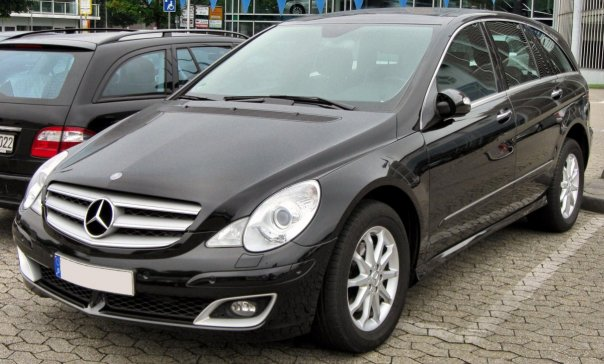
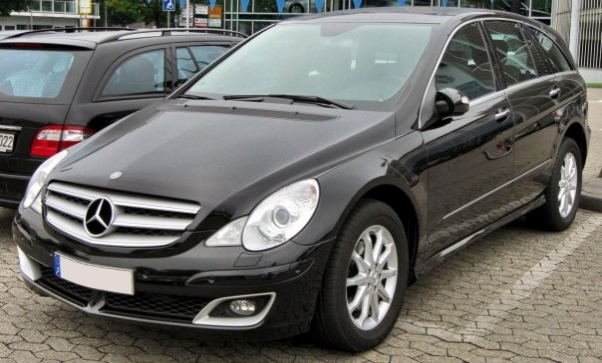
246

diff --git a/style_v.min.css b/style_v.min.css
@@ -1,1 +1,1 @@
-@charset "UTF-8";.hiragino{font-family:'Hiragino Kaku Gothic ProN','Hiragino Sans',Meiryo,sans-serif}.fs50p{font-size:50%}.fs80p{font-size:80%}.fs250p{font-size:250%}.fs300p{font-size:300%}.fs17{font-size:17px}.f1{color:#111}.f2{color:#222}.f3{color:#444}.f4{color:#666}.f5{color:#888}.f6{color:#999}.f7{color:#ccc}.f8{color:#dbd8d8}.f9{color:#fff}.fl-w,.fl-w2,.fl-w3{font-size:100px;color:#ccc;line-height:100px}.fl-w2{font-size:80px;line-height:80px}.fl-w3{font-size:60px;line-height:80px}.clr-or{color:orange}.clr-gy{color:#006c00}.clr-lb{color:#0e56dd}.ls04{letter-spacing:.4pt}.ls411{letter-spacing:4.11pt}.ls-13{letter-spacing:-1.3pt}.b{font-weight:800}.b_cancel{font-weight:400}.aa{font-size:16px;line-height:.95;margin:60px 0 15px 30px}.td1{border-top:solid .9px #666;border-bottom:solid .9px #666}.td2{border-bottom:solid .9px #666}.td3{color:#f2f2f2}.td3:hover{border-bottom:solid 1.8px #59f3ff;color:#59f3ff}a{text-decoration:none}a:link{color:#444}a:visited{color:#444}.lnk:hover{color:#000;border-bottom:solid 1px #000}a.lnk2:hover{color:#2600ff;border-bottom:solid 1px #2600ff}a.lnk3{color:#fbfbfb;line-height:40px}a.lnk3:visited{color:#fbfbfb}a.lnk3:hover{border-bottom:solid 1px #f2f2f2}.top{vertical-align:top}.left{text-align:left}.mid{text-align:center}.r,.ru{text-align:right;margin-right:30px}.ru{margin-top:-33.3px}.lh1{line-height:.99}.lh2{line-height:1.4}.bf0:before{content:"■ "}.bf1:before,.bf1a:before{content:"▼";margin:0 10px 4px 0;padding-left:18px;color:#afafaf}.bf1a:before{margin:0 10px 4px 10px;color:#f2f2f2}.bf2:before{content:">>";font-weight:700;margin-left:20px;margin-right:5px;color:#444}.af4:after,.bf4:before{content:"|";color:#444;font-weight:700;margin:10px}.bgc-hp{background-color:#fdbbdc}.bgc-lg{background-color:#90ee90}.bgc-pb{background-color:#b0e0e6}.bgc-or{background-color:orange}.bgc-ye{background-color:#ff0}.bgc-pp{background-color:#c5a4fa}.bgc-g{background-color:#616161}.bgc-amazon{background-color:#232f3e}.bgc-amazon2{background-color:#37475a}.bgc-amazon3{background-color:#0f1111}.bgc-yamaha{background-color:#3b3b3b}.bgc-yamaha2{background-color:#dbdbdb}.bgc-ricoh{background-color:#2e2e2e}.t-320{margin-top:-320px}.t-60{margin-top:-100px}.t-50{margin-top:-80px}.t-08{margin-top:-15px}.t-07{margin-top:-11px}.t-06{margin-top:-10px}.t-05{margin-top:-8.6px}.t-04{margin-top:-8px}.t-03{margin-top:-6px}.t-02{margin-top:-4px}.t-01{margin-top:-2px}.t-005{margin-top:-1px}.t00{margin-top:0}.t0{margin-top:.8px}.t0f{margin-top:3px}.t0c{margin-top:7.2px}.t0a{margin-top:8px}.t0g{margin-top:8.6px}.t0h{margin-top:10px}.t0b{margin-top:14px}.t0d{margin-top:19.8px}.t0e{margin-top:27.36px}.t1{margin-top:28.8px}.t1d{margin-top:31.5px}.t1a{margin-top:34px}.t1b{margin-top:43px}.t2b{margin-top:50.94px}.t1c{margin-top:52px}.t2{margin-top:57.6px}.t2c{margin-top:64px}.t2d{margin-top:68px}.t2a{margin-top:72px}.t3{margin-top:76.8px}.t3a{margin-top:78px}.t3b{margin-top:88px}.t3c{margin-top:90px}.t3f{margin-top:95px}.t3d{margin-top:103px}.t3e{margin-top:118px}.t4{margin-top:128px}.t5{margin-top:158px}.t6{margin-top:162px}.t8{margin-top:174px}.t9{margin-top:194px}.t10{margin-top:208px}.t10a{margin-top:214px}.t11{margin-top:222px}.t21{margin-top:246px}.t21a{margin-top:270px}.t22{margin-top:316px}.t22b{margin-top:322px}.t22a{margin-top:334px}.t23{margin-top:429px}.t23a{margin-top:433px}.t24{margin-top:467px}.t30{margin-top:556px}.t40{margin-top:750px}.t42{margin-top:790px}.t46{margin-top:858px}.t48{margin-top:894px}.t54{margin-top:990px}.t55{margin-top:1040px}.t58{margin-top:1070px}.t59{margin-top:1080px}.t60{margin-top:1108px}.t63{margin-top:1166px}.t64{margin-top:1180px}.t65{margin-top:1215px}.t76{margin-top:1419px}.t100{margin-top:1749px}.t105{margin-top:1770px}.t120{margin-top:1933.6px}.s-5{margin-right:-40px}.s{margin-right:8px}.s2{margin-right:16px}.s4{margin-right:32px}.s5{margin-right:40px}.s6{margin-right:48px}.s8{margin-right:64px}.s9{margin-right:70px}.s10{margin-right:80px}.s11{margin-right:88px}.s12{margin-right:96px}.s13{margin-right:104px}.s14{margin-right:122px}.s15{margin-right:140px}.s17{margin-right:176px}.s18{margin-right:194px}.s19{margin-right:212px}.s20{margin-right:230px}.s21{margin-right:248px}.s23{margin-right:284px}.s25{margin-right:320px}.s27{margin-right:356px}.s28{margin-right:374px}.s29{margin-right:392px}.s30{margin-right:410px}.s31{margin-right:428px}.pb0{padding-bottom:8px}.pb1{padding-bottom:16px}.pb2{padding-bottom:32px}.pb3{padding-bottom:48px}.pb4{padding-bottom:64px}.pb6{padding-bottom:96px}.pb7{padding-bottom:112px}.pb8{padding-bottom:128px}.pb9{padding-bottom:144px}.pb10{padding-bottom:160px}.pb11{padding-bottom:176px}.pb12{padding-bottom:192px}.pb13{padding-bottom:208px}.pb23{padding-bottom:368px}.pb25{padding-bottom:400px}.pb27{padding-bottom:432px}.pb28{padding-bottom:464px}.m-1{margin-left:-18px}.m-05{margin-left:-10.8px}.m-04{margin-left:-7px}.m-03{margin-left:-.54px}.m-02{margin-left:-3.78px}.m-01{margin-left:-1.8px}.m0{margin-left:0}.m0v{margin-left:2px}.m0va{margin-left:2.6px}.m0j{margin-left:3.24px}.m0t{margin-left:3.6px}.m0q{margin-left:4.2px}.m0d{margin-left:5px}.m0f{margin-left:5.4px}.m0b{margin-left:6.84px}.m0ba{margin-left:8px}.m0i{margin-left:8.8px}.m0s{margin-left:9.5px}.m0m{margin-left:10.44px}.m0a{margin-left:12.24px}.m0r{margin-left:13px}.m0u{margin-left:13.5px}.m0e{margin-left:14px}.m0l{margin-left:14.6px}.m0k{margin-left:15.2px}.m0g{margin-left:15.5px}.m0n{margin-left:16.4px}.m0c{margin-left:16.74px}.m0p{margin-left:17.64px}.m1{margin-left:18px}.m1k{margin-left:18.8px}.m1e{margin-left:19.8px}.m1o{margin-left:20.2px}.m1n{margin-left:21.24px}.m1c{margin-left:22.2px}.m1f{margin-left:22.32px}.m1p{margin-left:23px}.m1m{margin-left:24px}.m1b{margin-left:24.48px}.m1g{margin-left:25.2px}.m1l{margin-left:26.64px}.m1la{margin-left:27.64px}.m1d{margin-left:28.8px}.m1h{margin-left:30.06px}.m1i{margin-left:31.5px}.m1j{margin-left:33px}.m1ja{margin-left:34px}.m1a{margin-left:35px}.m2{margin-left:36px}.m2b{margin-left:39px}.m2h{margin-left:40px}.m2c{margin-left:42px}.m2f{margin-left:43.2px}.m2fa{margin-left:44px}.m2a{margin-left:45px}.m2g{margin-left:46.44px}.m2d{margin-left:47.4px}.m2e{margin-left:48.6px}.m2j{margin-left:49.5px}.m2k{margin-left:52px}.m3{margin-left:54px}.m3f{margin-left:54.8px}.m3a{margin-left:60.48px}.m3b{margin-left:61.2px}.m3d{margin-left:63px}.m3g{margin-left:64.8px}.m3c{margin-left:68.4px}.m3e{margin-left:69.6px}.m4{margin-left:72px}.m4b{margin-left:74px}.m4e{margin-left:75.5px}.m4a{margin-left:77.94px}.m4c{margin-left:79.2px}.m4d{margin-left:82px}.m05{margin-left:90px}.m05a{margin-left:92px}.m05b{margin-left:106px}.m06{margin-left:108px}.m06a{margin-left:117px}.m06b{margin-left:122.4px}.m07{margin-left:126px}.m07a{margin-left:130px}.m07b{margin-left:137px}.m08{margin-left:144px}.m08a{margin-left:147.6px}.m09{margin-left:162px}.m10{margin-left:180px}.m11{margin-left:198px}.m12a{margin-left:226px}.m13{margin-left:234px}.m14{margin-left:252px}.m15{margin-left:270px}.m16{margin-left:320px}.m17{margin-left:330.48px}.m19{margin-left:342px}.m22{margin-left:396px}.m24{margin-left:432px}.m26{margin-left:468px}.m27{margin-left:493.2px}.m29{margin-left:522px}.m33{margin-left:594px}.m34a{margin-left:622.5px}.m36a{margin-left:642px}.m37{margin-left:660.6px}.m38{margin-left:696px}.m39{margin-left:702px}.m40{margin-left:720px}.m41{margin-left:738px}.m43{margin-left:774px}.m44{margin-left:792px}.m45{margin-left:810px}.m46{margin-left:828px}.m47{margin-left:846px}.m48{margin-left:865.8px}.m51{margin-left:918px}.m53{margin-left:954px}.m54{margin-left:972px}.m60{margin-left:1024px}.w1{width:18px}.w2{width:36px}.w3{width:54px}.w4{width:72px}.w5{width:90px}.w6{width:108px}.w7{width:126px}.w8{width:144px}.w9{width:162px}.w10{width:180px}.w11{width:198px}.w12{width:216px}.w13{width:234px}.w14{width:252px}.w15{width:270px}.w16{width:288px}.w18{width:324px}.w20{width:360px}.w22{width:396px}.w24{width:432px}.box04,.box07a,.box08,.box09,.box09a,.box100,.box108,.box11,.box111,.box12,.box13,.box13a,.box14b,.box15,.box16,.box17a,.box18,.box21,.box21a,.box22,.box23,.box27,.box30a,.box34,.box36,.box39,.box40,.box41,.box41a,.box44,.box46,.box47a,.box50,.box51,.box53,.box56,.box59,.box60,.box61,.box62,.box64,.box64a,.box68,.box70,.box71,.box72,.box74,.box76,.box80,.box81,.box90,.box96{float:left}.box04{width:40px}.box07a{width:74px}.box08{width:82px}.box09{width:90px}.box09a{width:96px}.box11{width:110px}.box12{width:120px}.box13{width:130px}.box13a{width:136px}.box14b{width:145px}.box15{width:150px}.box16{width:160px}.box17a{width:175px}.box18{width:180px}.box21{width:210px}.box21a{width:212px}.box22{width:220px}.box23{width:230px}.box27{width:270px}.box30a{width:300px}.box34{width:340px}.box36{width:360px}.box39{width:387px}.box40{width:400px}.box41{width:406px}.box41a{width:417px}.box44{width:440px}.box46{width:463px}.box50{width:500px}.box51{width:510px}.box53{width:525px}.box56{width:560px}.box59{width:592px}.box60{width:600px}.box61{width:606px}.box64{width:641px}.box64a{width:687px}.box62{width:620px}.box68{width:680px}.box70{width:699px}.box71{width:706px}.box72{width:717px}.box74{width:740px}.box77{width:770px}.box80{width:804px}.box81{width:808px}.box90{width:900px}.box96{width:960px}.box100{width:1000px}.box108{width:1080px}.box111{width:1110px}.box121{width:1219px}.box-wide{width:3230px}.ht10{height:106.6px}.ht45{height:500px}.ht59{height:670px}.ht72{height:710px}.ht86{height:910px}.ht78{height:820px}.ht94{height:940px}.ht104{height:1040px}
+@charset "UTF-8";.hiragino{font-family:'Hiragino Kaku Gothic ProN','Hiragino Sans',Meiryo,sans-serif}.fs50p{font-size:50%}.fs80p{font-size:80%}.fs250p{font-size:250%}.fs300p{font-size:300%}.fs17{font-size:17px}.f1{color:#111}.f2{color:#222}.f3{color:#444}.f4{color:#666}.f5{color:#888}.f6{color:#999}.f7{color:#ccc}.f8{color:#dbd8d8}.f9{color:#fff}.fl-w,.fl-w2,.fl-w3{font-size:100px;color:#ccc;line-height:100px}.fl-w2{font-size:80px;line-height:80px}.fl-w3{font-size:60px;line-height:80px}.clr-or{color:orange}.clr-gy{color:#006c00}.clr-lb{color:#0e56dd}.ls04{letter-spacing:.4pt}.ls411{letter-spacing:4.11pt}.ls-13{letter-spacing:-1.3pt}.b{font-weight:800}.b_cancel{font-weight:400}.aa{font-size:16px;line-height:.95;margin:60px 0 15px 30px}.td1{border-top:solid .9px #666;border-bottom:solid .9px #666}.td2{border-bottom:solid .9px #666}.td3{color:#f2f2f2}.td3:hover{border-bottom:solid 1.8px #59f3ff;color:#59f3ff}a{text-decoration:none}a:link{color:#444}a:visited{color:#444}.lnk:hover{color:#000;border-bottom:solid 1px #000}a.lnk2:hover{color:#2600ff;border-bottom:solid 1px #2600ff}a.lnk3{color:#fbfbfb;line-height:40px}a.lnk3:visited{color:#fbfbfb}a.lnk3:hover{border-bottom:solid 1px #f2f2f2}.top{vertical-align:top}.left{text-align:left}.mid{text-align:center}.r,.ru{text-align:right;margin-right:30px}.ru{margin-top:-33.3px}.lh1{line-height:.99}.lh2{line-height:1.4}.bf0:before{content:"■ "}.bf1:before,.bf1a:before{content:"▼";margin:0 10px 4px 0;padding-left:18px;color:#afafaf}.bf1a:before{margin:0 10px 4px 10px;color:#f2f2f2}.bf2:before{content:">>";font-weight:700;margin-left:20px;margin-right:5px;color:#444}.af4:after,.bf4:before{content:"|";color:#444;font-weight:700;margin:10px}.bgc-w{background-color:#fff}.bgc-hp{background-color:#fdbbdc}.bgc-lg{background-color:#90ee90}.bgc-pb{background-color:#b0e0e6}.bgc-or{background-color:orange}.bgc-ye{background-color:#ff0}.bgc-pp{background-color:#c5a4fa}.bgc-g{background-color:#616161}.bgc-amazon{background-color:#232f3e}.bgc-amazon2{background-color:#37475a}.bgc-amazon3{background-color:#0f1111}.bgc-yamaha{background-color:#3b3b3b}.bgc-yamaha2{background-color:#dbdbdb}.bgc-ricoh{background-color:#2e2e2e}.t-320{margin-top:-320px}.t-60{margin-top:-100px}.t-50{margin-top:-80px}.t-08{margin-top:-15px}.t-07{margin-top:-11px}.t-06{margin-top:-10px}.t-05{margin-top:-8.6px}.t-04{margin-top:-8px}.t-03{margin-top:-6px}.t-02{margin-top:-4px}.t-01{margin-top:-2px}.t-005{margin-top:-1px}.t00{margin-top:0}.t0{margin-top:.8px}.t0f{margin-top:3px}.t0c{margin-top:7.2px}.t0a{margin-top:8px}.t0g{margin-top:8.6px}.t0h{margin-top:10px}.t0b{margin-top:14px}.t0d{margin-top:19.8px}.t0e{margin-top:27.36px}.t1{margin-top:28.8px}.t1d{margin-top:31.5px}.t1a{margin-top:34px}.t1b{margin-top:43px}.t2b{margin-top:50.94px}.t1c{margin-top:52px}.t2{margin-top:57.6px}.t2c{margin-top:64px}.t2d{margin-top:68px}.t2a{margin-top:72px}.t3{margin-top:76.8px}.t3a{margin-top:78px}.t3b{margin-top:88px}.t3c{margin-top:90px}.t3f{margin-top:95px}.t3d{margin-top:103px}.t3e{margin-top:118px}.t4{margin-top:128px}.t5{margin-top:158px}.t6{margin-top:162px}.t8{margin-top:174px}.t9{margin-top:194px}.t10{margin-top:208px}.t10a{margin-top:214px}.t11{margin-top:222px}.t21{margin-top:246px}.t21a{margin-top:270px}.t22{margin-top:316px}.t22b{margin-top:322px}.t22a{margin-top:334px}.t23{margin-top:429px}.t23a{margin-top:433px}.t24{margin-top:467px}.t30{margin-top:556px}.t40{margin-top:750px}.t42{margin-top:790px}.t46{margin-top:858px}.t48{margin-top:894px}.t54{margin-top:990px}.t55{margin-top:1040px}.t58{margin-top:1070px}.t59{margin-top:1080px}.t60{margin-top:1108px}.t63{margin-top:1166px}.t64{margin-top:1180px}.t65{margin-top:1215px}.t76{margin-top:1419px}.t100{margin-top:1749px}.t105{margin-top:1770px}.t120{margin-top:1933.6px}.s-5{margin-right:-40px}.s{margin-right:8px}.s2{margin-right:16px}.s4{margin-right:32px}.s5{margin-right:40px}.s6{margin-right:48px}.s8{margin-right:64px}.s9{margin-right:70px}.s10{margin-right:80px}.s11{margin-right:88px}.s12{margin-right:96px}.s13{margin-right:104px}.s14{margin-right:122px}.s15{margin-right:140px}.s17{margin-right:176px}.s18{margin-right:194px}.s19{margin-right:212px}.s20{margin-right:230px}.s21{margin-right:248px}.s23{margin-right:284px}.s25{margin-right:320px}.s27{margin-right:356px}.s28{margin-right:374px}.s29{margin-right:392px}.s30{margin-right:410px}.s31{margin-right:428px}.pb0{padding-bottom:8px}.pb1{padding-bottom:16px}.pb2{padding-bottom:32px}.pb3{padding-bottom:48px}.pb4{padding-bottom:64px}.pb6{padding-bottom:96px}.pb7{padding-bottom:112px}.pb8{padding-bottom:128px}.pb9{padding-bottom:144px}.pb10{padding-bottom:160px}.pb11{padding-bottom:176px}.pb12{padding-bottom:192px}.pb13{padding-bottom:208px}.pb23{padding-bottom:368px}.pb25{padding-bottom:400px}.pb27{padding-bottom:432px}.pb28{padding-bottom:464px}.m-1{margin-left:-18px}.m-05{margin-left:-10.8px}.m-04{margin-left:-7px}.m-03{margin-left:-.54px}.m-02{margin-left:-3.78px}.m-01{margin-left:-1.8px}.m0{margin-left:0}.m0v{margin-left:2px}.m0va{margin-left:2.6px}.m0j{margin-left:3.24px}.m0t{margin-left:3.6px}.m0q{margin-left:4.2px}.m0d{margin-left:5px}.m0f{margin-left:5.4px}.m0b{margin-left:6.84px}.m0ba{margin-left:8px}.m0i{margin-left:8.8px}.m0s{margin-left:9.5px}.m0m{margin-left:10.44px}.m0a{margin-left:12.24px}.m0r{margin-left:13px}.m0u{margin-left:13.5px}.m0e{margin-left:14px}.m0l{margin-left:14.6px}.m0k{margin-left:15.2px}.m0g{margin-left:15.5px}.m0n{margin-left:16.4px}.m0c{margin-left:16.74px}.m0p{margin-left:17.64px}.m1{margin-left:18px}.m1k{margin-left:18.8px}.m1e{margin-left:19.8px}.m1o{margin-left:20.2px}.m1n{margin-left:21.24px}.m1c{margin-left:22.2px}.m1f{margin-left:22.32px}.m1p{margin-left:23px}.m1m{margin-left:24px}.m1b{margin-left:24.48px}.m1g{margin-left:25.2px}.m1l{margin-left:26.64px}.m1la{margin-left:27.64px}.m1d{margin-left:28.8px}.m1h{margin-left:30.06px}.m1i{margin-left:31.5px}.m1j{margin-left:33px}.m1ja{margin-left:34px}.m1a{margin-left:35px}.m2{margin-left:36px}.m2b{margin-left:39px}.m2h{margin-left:40px}.m2c{margin-left:42px}.m2f{margin-left:43.2px}.m2fa{margin-left:44px}.m2a{margin-left:45px}.m2g{margin-left:46.44px}.m2d{margin-left:47.4px}.m2e{margin-left:48.6px}.m2j{margin-left:49.5px}.m2k{margin-left:52px}.m3{margin-left:54px}.m3f{margin-left:54.8px}.m3a{margin-left:60.48px}.m3b{margin-left:61.2px}.m3d{margin-left:63px}.m3g{margin-left:64.8px}.m3c{margin-left:68.4px}.m3e{margin-left:69.6px}.m4{margin-left:72px}.m4b{margin-left:74px}.m4e{margin-left:75.5px}.m4a{margin-left:77.94px}.m4c{margin-left:79.2px}.m4d{margin-left:82px}.m05{margin-left:90px}.m05a{margin-left:92px}.m05b{margin-left:106px}.m06{margin-left:108px}.m06a{margin-left:117px}.m06b{margin-left:122.4px}.m07{margin-left:126px}.m07a{margin-left:130px}.m07b{margin-left:137px}.m08{margin-left:144px}.m08a{margin-left:147.6px}.m09{margin-left:162px}.m10{margin-left:180px}.m11{margin-left:198px}.m12a{margin-left:226px}.m13{margin-left:234px}.m14{margin-left:252px}.m15{margin-left:270px}.m16{margin-left:320px}.m17{margin-left:330.48px}.m19{margin-left:342px}.m22{margin-left:396px}.m24{margin-left:432px}.m26{margin-left:468px}.m27{margin-left:493.2px}.m29{margin-left:522px}.m33{margin-left:594px}.m34a{margin-left:622.5px}.m36a{margin-left:642px}.m37{margin-left:660.6px}.m38{margin-left:696px}.m39{margin-left:702px}.m40{margin-left:720px}.m41{margin-left:738px}.m43{margin-left:774px}.m44{margin-left:792px}.m45{margin-left:810px}.m46{margin-left:828px}.m47{margin-left:846px}.m48{margin-left:865.8px}.m51{margin-left:918px}.m53{margin-left:954px}.m54{margin-left:972px}.m60{margin-left:1024px}.w1{width:18px}.w2{width:36px}.w3{width:54px}.w4{width:72px}.w5{width:90px}.w6{width:108px}.w7{width:126px}.w8{width:144px}.w9{width:162px}.w10{width:180px}.w11{width:198px}.w12{width:216px}.w13{width:234px}.w14{width:252px}.w15{width:270px}.w16{width:288px}.w18{width:324px}.w20{width:360px}.w22{width:396px}.w24{width:432px}.box04,.box07a,.box08,.box09,.box09a,.box100,.box108,.box11,.box111,.box12,.box13,.box13a,.box14b,.box15,.box16,.box17a,.box18,.box21,.box21a,.box22,.box23,.box27,.box30a,.box34,.box36,.box39,.box40,.box41,.box41a,.box44,.box46,.box47a,.box50,.box51,.box53,.box56,.box59,.box60,.box61,.box62,.box64,.box64a,.box68,.box70,.box71,.box72,.box74,.box76,.box80,.box81,.box90,.box96{float:left}.box04{width:40px}.box07a{width:74px}.box08{width:82px}.box09{width:90px}.box09a{width:96px}.box11{width:110px}.box12{width:120px}.box13{width:130px}.box13a{width:136px}.box14b{width:145px}.box15{width:150px}.box16{width:160px}.box17a{width:175px}.box18{width:180px}.box21{width:210px}.box21a{width:212px}.box22{width:220px}.box23{width:230px}.box27{width:270px}.box30a{width:300px}.box34{width:340px}.box36{width:360px}.box39{width:387px}.box40{width:400px}.box41{width:406px}.box41a{width:417px}.box44{width:440px}.box46{width:463px}.box50{width:500px}.box51{width:510px}.box53{width:525px}.box56{width:560px}.box59{width:592px}.box60{width:600px}.box61{width:606px}.box64{width:641px}.box64a{width:687px}.box62{width:620px}.box68{width:680px}.box70{width:699px}.box71{width:706px}.box72{width:717px}.box74{width:740px}.box77{width:770px}.box80{width:804px}.box81{width:808px}.box90{width:900px}.box96{width:960px}.box100{width:1000px}.box108{width:1080px}.box111{width:1110px}.box121{width:1219px}.box-wide{width:3230px}.ht10{height:106.6px}.ht45{height:500px}.ht59{height:670px}.ht72{height:710px}.ht86{height:910px}.ht78{height:820px}.ht94{height:940px}.ht104{height:1040px}

diff --git a/pic/ja_mb_img_r.html b/pic/ja_mb_img_r.html
@@ -43,7 +43,7 @@
 				<ul>
 					<li class="i m1"><a href="../c_klasse.html" class="lnk2" title="Cクラスのテンプレートに戻る">ホーム</a></li>
 					<li class="i bf4 af4">
-						   <h1 class="i m0">Mercedes-Benz Pkw GALERIE<span class="clr-lb m0e">Rクラス</span></h1>
+						<h1 class="i m0">Mercedes-Benz Pkw GALERIE<span class="clr-lb m0e">Rクラス</span></h1>
 					</li>
 					<li class="i s2"><a href="#w251" title="251" class="lnk2">251</a></li>
 					<li class="r">
@@ -94,11 +94,11 @@
 		<section>
 			<h2 class="b" id="w251">Rクラス</h2>
 			<div class="style-w">
-				<a href="https://ja.wikipedia.org/wiki/%E3%83%A1%E3%83%AB%E3%82%BB%E3%83%87%E3%82%B9%E3%83%BB%E3%83%99%E3%83%B3%E3%83%84%E3%83%BBR%E3%82%AF%E3%83%A9%E3%82%B9" class="ico-wiki m1"  title="Wikipedia(J) 251"></a>
+				<a href="https://ja.wikipedia.org/wiki/%E3%83%A1%E3%83%AB%E3%82%BB%E3%83%87%E3%82%B9%E3%83%BB%E3%83%99%E3%83%B3%E3%83%84%E3%83%BBR%E3%82%AF%E3%83%A9%E3%82%B9" class="ico-wiki m1" title="Wikipedia(J) 251"></a>
 				<h3 class="i m0">W251 / V251</h3>
 				<p class="i m1">2005 - 2017</p><br>
-				<a href="full/r/w251_f.jpg"><img src="style/r/w251_f.jpg" alt="メルセデス,ベンツ,W251,Rクラス,フロント" width="604" height="364"></a>
-				<a href="full/r/w251_r.jpg"><img src="style/r/w251_r.jpg" alt="メルセデス,ベンツ,W251,Rクラス,リヤ" width="604" height="364"></a>
+				<a href="full/r/w251_f.jpg"><img src="style/r/w251_f.jpg" alt="メルセデス,ベンツ,W251,Rクラス,フロント" width="602" height="363"></a>
+				<a href="full/r/w251_r.jpg"><img src="style/r/w251_r.jpg" alt="メルセデス,ベンツ,W251,Rクラス,リヤ" width="602" height="363"></a>
 				<div>
 					<div class="box61"><br>
 						<a href="full/r/w251_d.jpg"><img src="style/r/w251_d.jpg" alt="メルセデス,ベンツ,W251,Rクラス,ダッシュボード" width="604" height="369"></a>
@@ -128,11 +128,13 @@
 				<a href="full/r/v251_r3x.jpg"><img src="style/r/v251_r3x.jpg" alt="メルセデス,ベンツ,V251,Rクラス,ロングホイールベース,rear" width="531" height="403"></a>
 				<a href="full/r/v251_i3.jpg"><img src="style/r/v251_i3.jpg" alt="メルセデス,ベンツ,V251,Rクラス,ロングホイールベース,内装" width="675" height="403"></a>
 				<h4>Dimensions　上 W251 (Short), 下 V251 (Long)</h4>
-				<a href="full/r/w251_a.jpg"><img src="style/r/w251_a.jpg" alt="メルセデス,ベンツ,W251,R-Klasse,寸法" width="1082" height="461"></a><br>
-				<a href="full/r/w251_a1.jpg"><img src="style/r/w251_a1.jpg" alt="メルセデス,ベンツ,W251,R-Class,寸法" width="1077" height="426"></a><br>
-				<a href="full/r/v251_a1.jpg"><img src="style/r/v251_a1.jpg" alt="メルセデス,ベンツ,v251,R-Class,ロングホイールベース,寸法" width="1092" height="420"></a><br>
-				<a href="full/r/w251_a2.jpg"><img src="style/r/w251_a2.jpg" alt="メルセデス,ベンツ,w251,R-Class,寸法" width="1004" height="469"></a><br>
-				<a href="full/r/v251_a2.jpg"><img src="style/r/v251_a2.jpg" alt="メルセデス,ベンツ,V251,R-Class,ロングホイールベース,寸法" width="1033" height="457"></a>
+				<div class="bgc-w" style="width:1210px ;">
+					<a class="m2" href="full/r/w251_a.jpg"><img src="style/r/w251_a.jpg" alt="メルセデス,ベンツ,W251,R-Klasse,寸法" width="1082" height="461"></a><br>
+					<a class="m1n" href="full/r/w251_a1.jpg"><img src="style/r/w251_a1.jpg" alt="メルセデス,ベンツ,W251,R-Class,寸法" width="1077" height="426"></a><br>
+					<a class="m2c" href="full/r/v251_a1.jpg"><img src="style/r/v251_a1.jpg" alt="メルセデス,ベンツ,v251,R-Class,ロングホイールベース,寸法" width="1092" height="420"></a><br>
+					<a class="m2" href="full/r/w251_a2.jpg"><img src="style/r/w251_a2.jpg" alt="メルセデス,ベンツ,w251,R-Class,寸法" width="1004" height="469"></a><br>
+					<a class="m2a" href="full/r/v251_a2.jpg"><img src="style/r/v251_a2.jpg" alt="メルセデス,ベンツ,V251,R-Class,ロングホイールベース,寸法" width="1033" height="457"></a>
+				</div>
 			</div>
 		</section>
 		<footer>

diff --git a/pic/mb_img_r.html b/pic/mb_img_r.html
@@ -43,7 +43,7 @@
 				<ul>
 					<li class="i m1"><a href="../c_klasse.html" class="lnk2" title="Zurück zur Vorlage der C-Klasse">Startseite</a></li>
 					<li class="i bf4 af4">
-						   <h1 class="i m0">Mercedes-Benz Pkw GALERIE<span class="clr-lb m0e">R-Klasse</span></h1>
+						<h1 class="i m0">Mercedes-Benz Pkw GALERIE<span class="clr-lb m0e">R-Klasse</span></h1>
 					</li>
 					<li class="i s2"><a href="#w251" title="251" class="lnk2">251</a></li>
 					<li class="r">
@@ -94,11 +94,11 @@
 		<section>
 			<h2 class="b" id="w251">R-Klasse</h2>
 			<div class="style-w">
-				<a href="https://de.wikipedia.org/wiki/Mercedes-Benz_Baureihe_251" class="ico-wiki m1"  title="Wikipedia(D) 251"></a>
+				<a href="https://de.wikipedia.org/wiki/Mercedes-Benz_Baureihe_251" class="ico-wiki m1" title="Wikipedia(D) 251"></a>
 				<h3 class="i m0">W251 / V251</h3>
 				<p class="i m1">2005 - 2017</p><br>
-				<a href="full/r/w251_f.jpg"><img src="style/r/w251_f.jpg" alt="Mercedes,W251,R-Klasse,Frontansicht" width="604" height="364"></a>
-				<a href="full/r/w251_r.jpg"><img src="style/r/w251_r.jpg" alt="Mercedes,W251,R-Klasse,Rückansicht" width="604" height="364"></a>
+				<a href="full/r/w251_f.jpg"><img src="style/r/w251_f.jpg" alt="Mercedes,W251,R-Klasse,Frontansicht" width="602" height="363"></a>
+				<a href="full/r/w251_r.jpg"><img src="style/r/w251_r.jpg" alt="Mercedes,W251,R-Klasse,Rückansicht" width="602" height="363"></a>
 				<div>
 					<div class="box61"><br>
 						<a href="full/r/w251_d.jpg"><img src="style/r/w251_d.jpg" alt="Mercedes,W251,R-Klasse,Instrumententafel" width="604" height="369"></a>
@@ -128,11 +128,13 @@
 				<a href="full/r/v251_r3x.jpg"><img src="style/r/v251_r3x.jpg" alt="Mercedes,V251,R-Klasse,Lang,Rückansicht" width="531" height="403"></a>
 				<a href="full/r/v251_i3.jpg"><img src="style/r/v251_i3.jpg" alt="Mercedes,V251,R-Klasse,Lang,Innere" width="675" height="403"></a>
 				<h4>Abmessungen　Oben W251 (Kurz), unten V251 (Lang)</h4>
-				<a href="full/r/w251_a.jpg"><img src="style/r/w251_a.jpg" alt="Mercedes,W251,R-Klasse,Maße" width="1082" height="461"></a><br>
-				<a href="full/r/w251_a1.jpg"><img src="style/r/w251_a1.jpg" alt="Mercedes,W251,R-Klasse,Maße" width="1077" height="426"></a><br>
-				<a href="full/r/v251_a1.jpg"><img src="style/r/v251_a1.jpg" alt="Mercedes,v251,R-Klasse,Lang,Maße" width="1092" height="420"></a><br>
-				<a href="full/r/w251_a2.jpg"><img src="style/r/w251_a2.jpg" alt="Mercedes,w251,R-Klasse,Maße" width="1004" height="469"></a><br>
-				<a href="full/r/v251_a2.jpg"><img src="style/r/v251_a2.jpg" alt="Mercedes,V251,R-Klasse,Lang,Maße" width="1033" height="457"></a><br>
+				<div class="bgc-w" style="width:1210px ;">
+					<a class="m2"  href="full/r/w251_a.jpg"><img src="style/r/w251_a.jpg" alt="Mercedes,W251,R-Klasse,Maße" width="1082" height="461"></a><br>
+					<a class="m1n" href="full/r/w251_a1.jpg"><img src="style/r/w251_a1.jpg" alt="Mercedes,W251,R-Klasse,Maße" width="1077" height="426"></a><br>
+					<a class="m2c" href="full/r/v251_a1.jpg"><img src="style/r/v251_a1.jpg" alt="Mercedes,v251,R-Klasse,Lang,Maße" width="1092" height="420"></a><br>
+					<a class="m2"  href="full/r/w251_a2.jpg"><img src="style/r/w251_a2.jpg" alt="Mercedes,w251,R-Klasse,Maße" width="1004" height="469"></a><br>
+					<a class="m2a" href="full/r/v251_a2.jpg"><img src="style/r/v251_a2.jpg" alt="Mercedes,V251,R-Klasse,Lang,Maße" width="1033" height="457"></a><br>
+				</div>
 			</div>
 		</section>
 		<footer>

diff --git a/pic/en_mb_img_r.html b/pic/en_mb_img_r.html
@@ -43,7 +43,7 @@
 				<ul>
 					<li class="i m1"><a href="../c_klasse.html" class="lnk2" title="Back to the C-Class template">Home page</a></li>
 					<li class="i bf4 af4">
-						   <h1 class="i m0">Mercedes-Benz Pkw GALERIE<span class="clr-lb m0e">R-Class</span></h1>
+						<h1 class="i m0">Mercedes-Benz Pkw GALERIE<span class="clr-lb m0e">R-Class</span></h1>
 					</li>
 					<li class="i s2"><a href="#w251" title="251" class="lnk2">251</a></li>
 					<li class="r">
@@ -94,11 +94,11 @@
 		<section>
 			<h2 class="b" id="w251">R-Class</h2>
 			<div class="style-w">
-				<a href="https://en.wikipedia.org/wiki/Mercedes-Benz_R-Class" class="ico-wiki m1"  title="Wikipedia(E) 251"></a>
+				<a href="https://en.wikipedia.org/wiki/Mercedes-Benz_R-Class" class="ico-wiki m1" title="Wikipedia(E) 251"></a>
 				<h3 class="i m0">W251 / V251</h3>
 				<p class="i m1">2005 - 2017</p><br>
-				<a href="full/r/w251_f.jpg"><img src="style/r/w251_f.jpg" alt="Mercedes,W251,R-Class,front" width="604" height="364"></a>
-				<a href="full/r/w251_r.jpg"><img src="style/r/w251_r.jpg" alt="Mercedes,W251,R-Class,rear" width="604" height="364"></a>
+				<a href="full/r/w251_f.jpg"><img src="style/r/w251_f.jpg" alt="Mercedes,W251,R-Class,front" width="602" height="363"></a>
+				<a href="full/r/w251_r.jpg"><img src="style/r/w251_r.jpg" alt="Mercedes,W251,R-Class,rear" width="602" height="363"></a>
 				<div>
 					<div class="box61"><br>
 						<a href="full/r/w251_d.jpg"><img src="style/r/w251_d.jpg" alt="Mercedes,W251,R-Class,dashboard" width="604" height="369"></a>
@@ -128,11 +128,13 @@
 				<a href="full/r/v251_r3x.jpg"><img src="style/r/v251_r3x.jpg" alt="Mercedes,V251,R-Class,long,rear" width="531" height="403"></a>
 				<a href="full/r/v251_i3.jpg"><img src="style/r/v251_i3.jpg" alt="Mercedes,V251,R-Class,long,interior" width="675" height="403"></a>
 				<h4>Dimensions　Above W251 (Short), below V251 (Long)</h4>
-				<a href="full/r/w251_a.jpg"><img src="style/r/w251_a.jpg" alt="Mercedes,W251,R-Class,dimensions" width="1082" height="461"></a><br>
-				<a href="full/r/w251_a1.jpg"><img src="style/r/w251_a1.jpg" alt="Mercedes,W251,R-Class,dimensions" width="1077" height="426"></a><br>
-				<a href="full/r/v251_a1.jpg"><img src="style/r/v251_a1.jpg" alt="Mercedes,v251,R-Class,long,dimensions" width="1092" height="420"></a><br>
-				<a href="full/r/w251_a2.jpg"><img src="style/r/w251_a2.jpg" alt="Mercedes,w251,R-Class,dimensions" width="1004" height="469"></a><br>
-				<a href="full/r/v251_a2.jpg"><img src="style/r/v251_a2.jpg" alt="Mercedes,V251,R-Class,long,dimensions" width="1033" height="457"></a>
+				<div class="bgc-w" style="width:1210px ;">
+					<a class="m2"  href="full/r/w251_a.jpg"><img src="style/r/w251_a.jpg" alt="Mercedes,W251,R-Class,dimensions" width="1082" height="461"></a><br>
+					<a class="m1n" href="full/r/w251_a1.jpg"><img src="style/r/w251_a1.jpg" alt="Mercedes,W251,R-Class,dimensions" width="1077" height="426"></a><br>
+					<a class="m2c" href="full/r/v251_a1.jpg"><img src="style/r/v251_a1.jpg" alt="Mercedes,v251,R-Class,long,dimensions" width="1092" height="420"></a><br>
+					<a class="m2"  href="full/r/w251_a2.jpg"><img src="style/r/w251_a2.jpg" alt="Mercedes,w251,R-Class,dimensions" width="1004" height="469"></a><br>
+					<a class="m2a" href="full/r/v251_a2.jpg"><img src="style/r/v251_a2.jpg" alt="Mercedes,V251,R-Class,long,dimensions" width="1033" height="457"></a>
+				</div>
 			</div>
 		</section>
 		<footer>

diff --git a/style_v.css b/style_v.css
@@ -55,6 +55,7 @@ a.lnk3:hover { border-bottom: solid 1px #f2f2f2;}
 .bf2:before { content: ">>"; font-weight: 700; margin-left: 20px; margin-right: 5px; color: #444;}
 .bf4:before, .af4:after { content: "|"; color: #444; font-weight: 700; margin: 10px;}
 /* background */
+.bgc-w {	background-color: white;}
 .bgc-hp { background-color: rgb(253, 187, 220);}
 .bgc-lg { background-color: lightgreen;}
 .bgc-pb { background-color: powderblue;}
